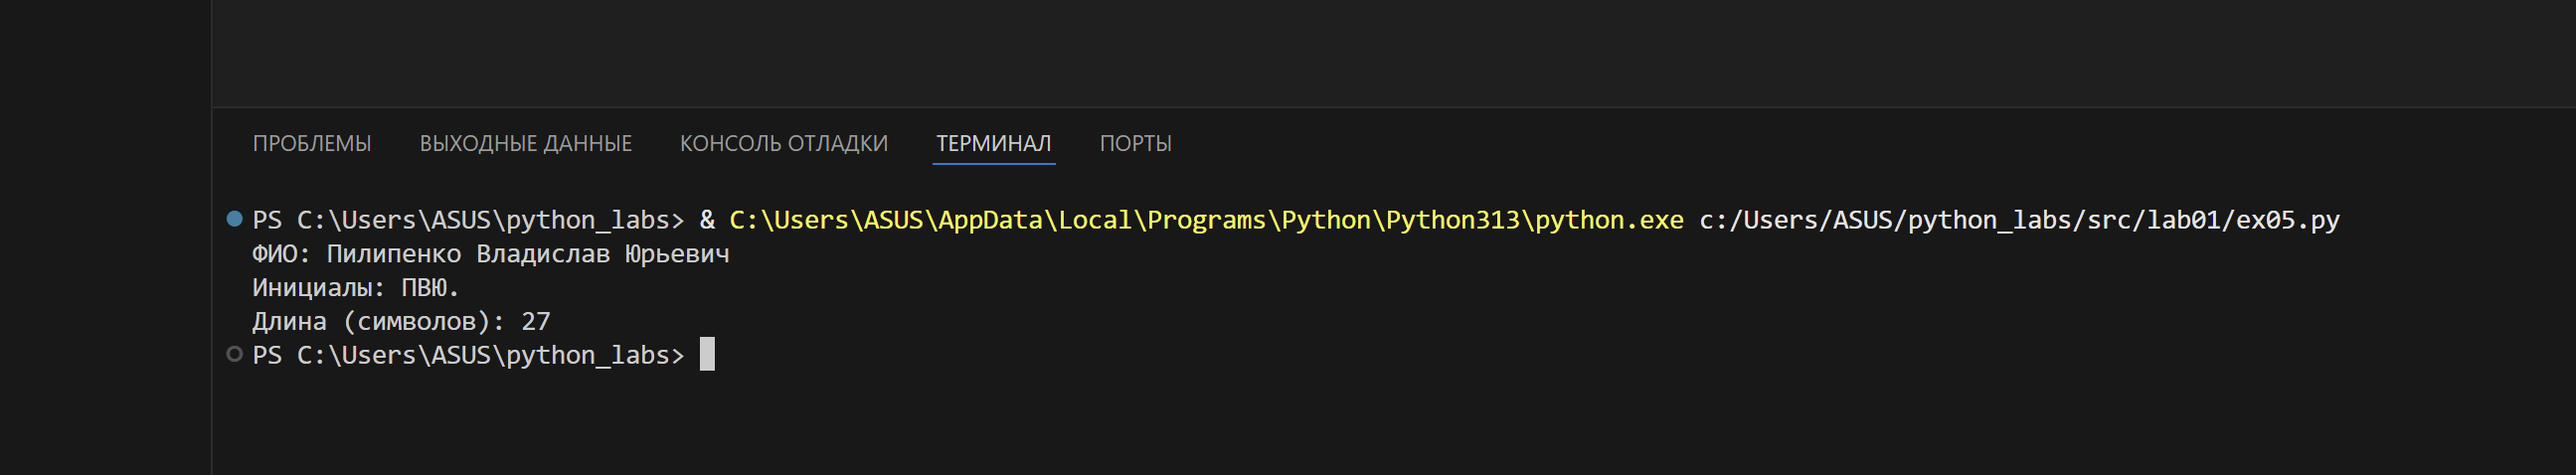
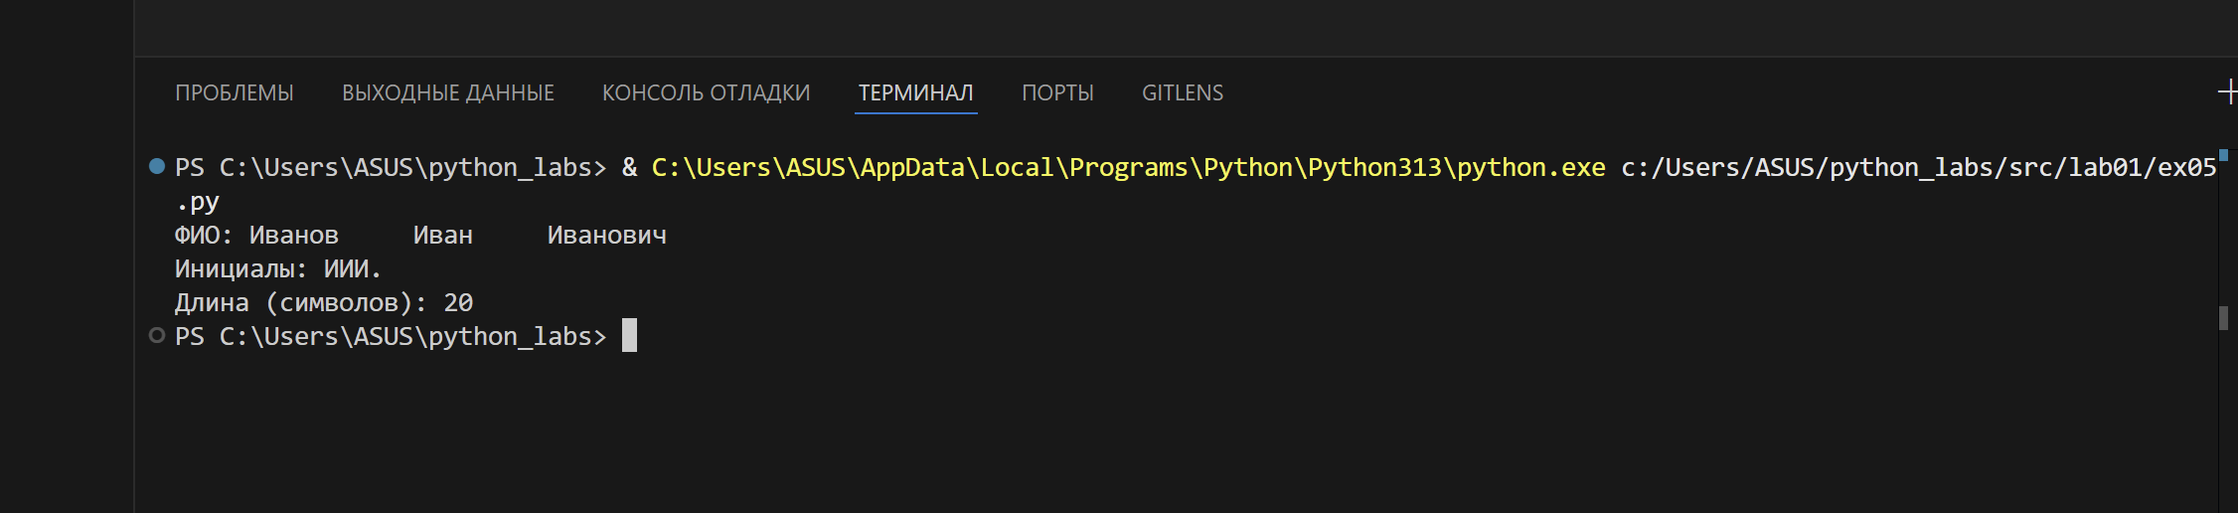
Lab01 ex 5 update

diff --git a/src/lab01/ex05.py b/src/lab01/ex05.py
@@ -1,7 +1,7 @@
 fio = input("ФИО: ")
-fio_stripped = fio.strip()
-initials = "".join([word[0].upper() for word in fio_stripped.split()]) + "."
-length = len(fio_stripped)
+fio_clean = " ".join(fio.split())
+initials = "".join([word[0].upper() for word in fio_clean.split()]) + "."
+length = len(fio_clean)
 
 print(f"Инициалы: {initials}")
 print(f"Длина (символов): {length}")

diff --git a/README.md b/README.md
@@ -53,9 +53,9 @@ print(f"{hours}:{minutes:02d}")
 ### 5 задание
 
 ```fio = input("ФИО: ")
-fio_stripped = fio.strip()
-initials = "".join([word[0].upper() for word in fio_stripped.split()]) + "."
-length = len(fio_stripped)
+fio_clean = " ".join(fio.split())
+initials = "".join([word[0].upper() for word in fio_clean.split()]) + "."
+length = len(fio_clean)
 
 print(f"Инициалы: {initials}")
 print(f"Длина (символов): {length}")
